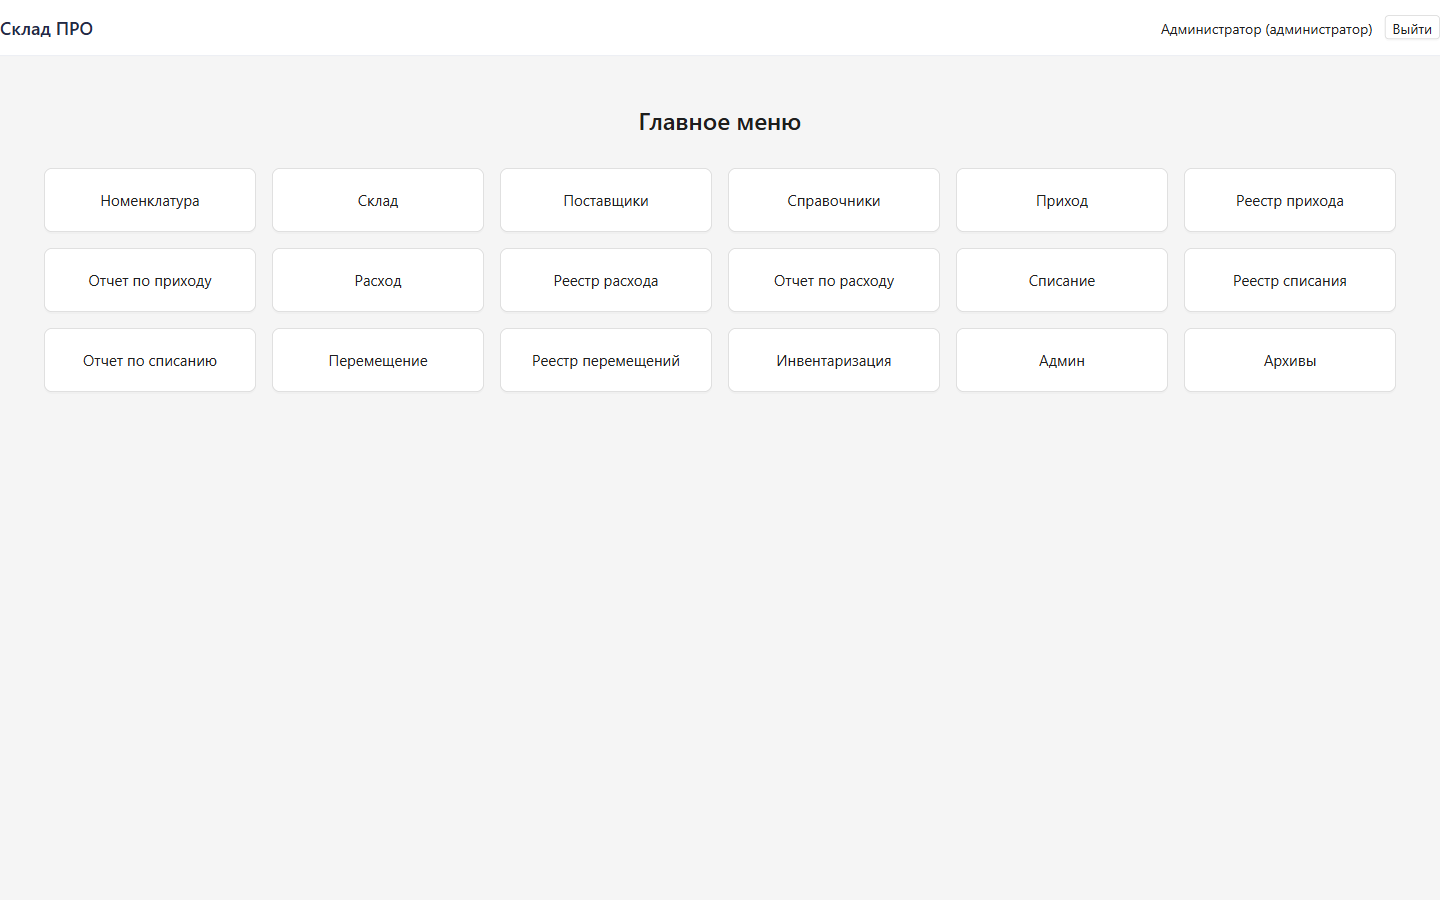
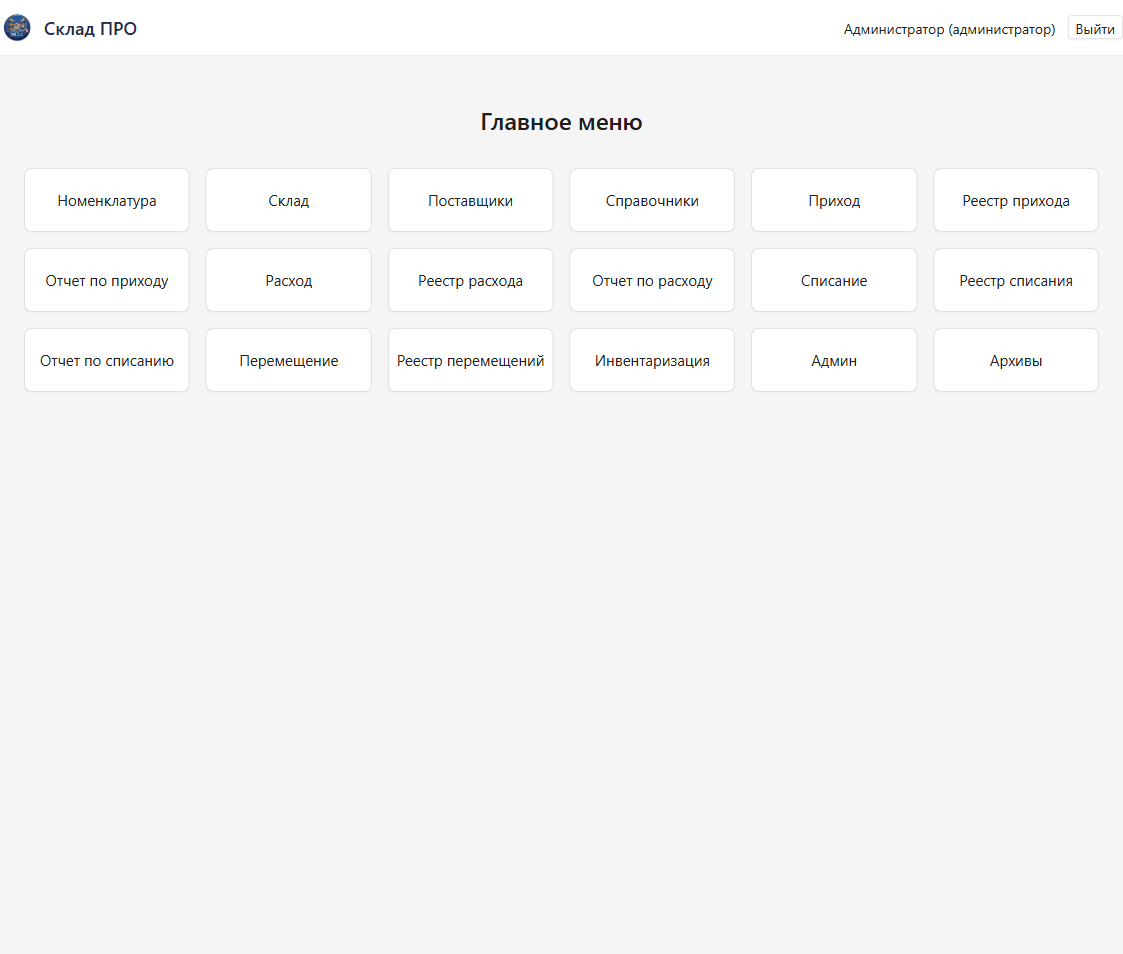
Добавлено логотип: иконка приложения, фавикон и шапка UI
- Из logo_sklad.png вырезан круглый бейдж на прозрачном фоне (512×512)
- web/public: logo.png (шапка), favicon.ico (16–64), favicon-64.png
- Шапка App.tsx: логотип слева от названия «Склад ПРО»
- packaging/electron/build/icon.png: новая иконка exe/installer
- Обновлён скриншот 02_main_menu.png

diff --git a/web/src/App.tsx b/web/src/App.tsx
@@ -72,7 +72,10 @@ export default function App() {
               <AntApp>
               <Layout style={{ minHeight: '100vh' }}>
                 <Layout.Header className="app-header" style={{ padding: 0 }}>
-                  <span className="app-title">Склад ПРО</span>
+                  <span className="app-brand">
+                    <img className="app-logo" src="/logo.png" alt="Склад ПРО" />
+                    <span className="app-title">Склад ПРО</span>
+                  </span>
                   <span>
                     {user.full_name || user.username}
                     {user.role === 'admin' && ' (администратор)'}

diff --git a/web/index.html b/web/index.html
@@ -3,6 +3,8 @@
   <head>
     <meta charset="UTF-8" />
     <meta name="viewport" content="width=device-width, initial-scale=1.0" />
+    <link rel="icon" href="/favicon.ico" />
+    <link rel="icon" type="image/png" sizes="64x64" href="/favicon-64.png" />
     <title>Склад ПРО — складской учёт</title>
   </head>
   <body>

diff --git a/web/src/index.css b/web/src/index.css
@@ -33,6 +33,18 @@ body {
   z-index: 10;
 }
 
+.app-brand {
+  display: inline-flex;
+  align-items: center;
+  gap: 10px;
+}
+
+.app-logo {
+  width: 34px;
+  height: 34px;
+  display: block;
+}
+
 .app-title {
   font-size: 18px;
   font-weight: 600;
